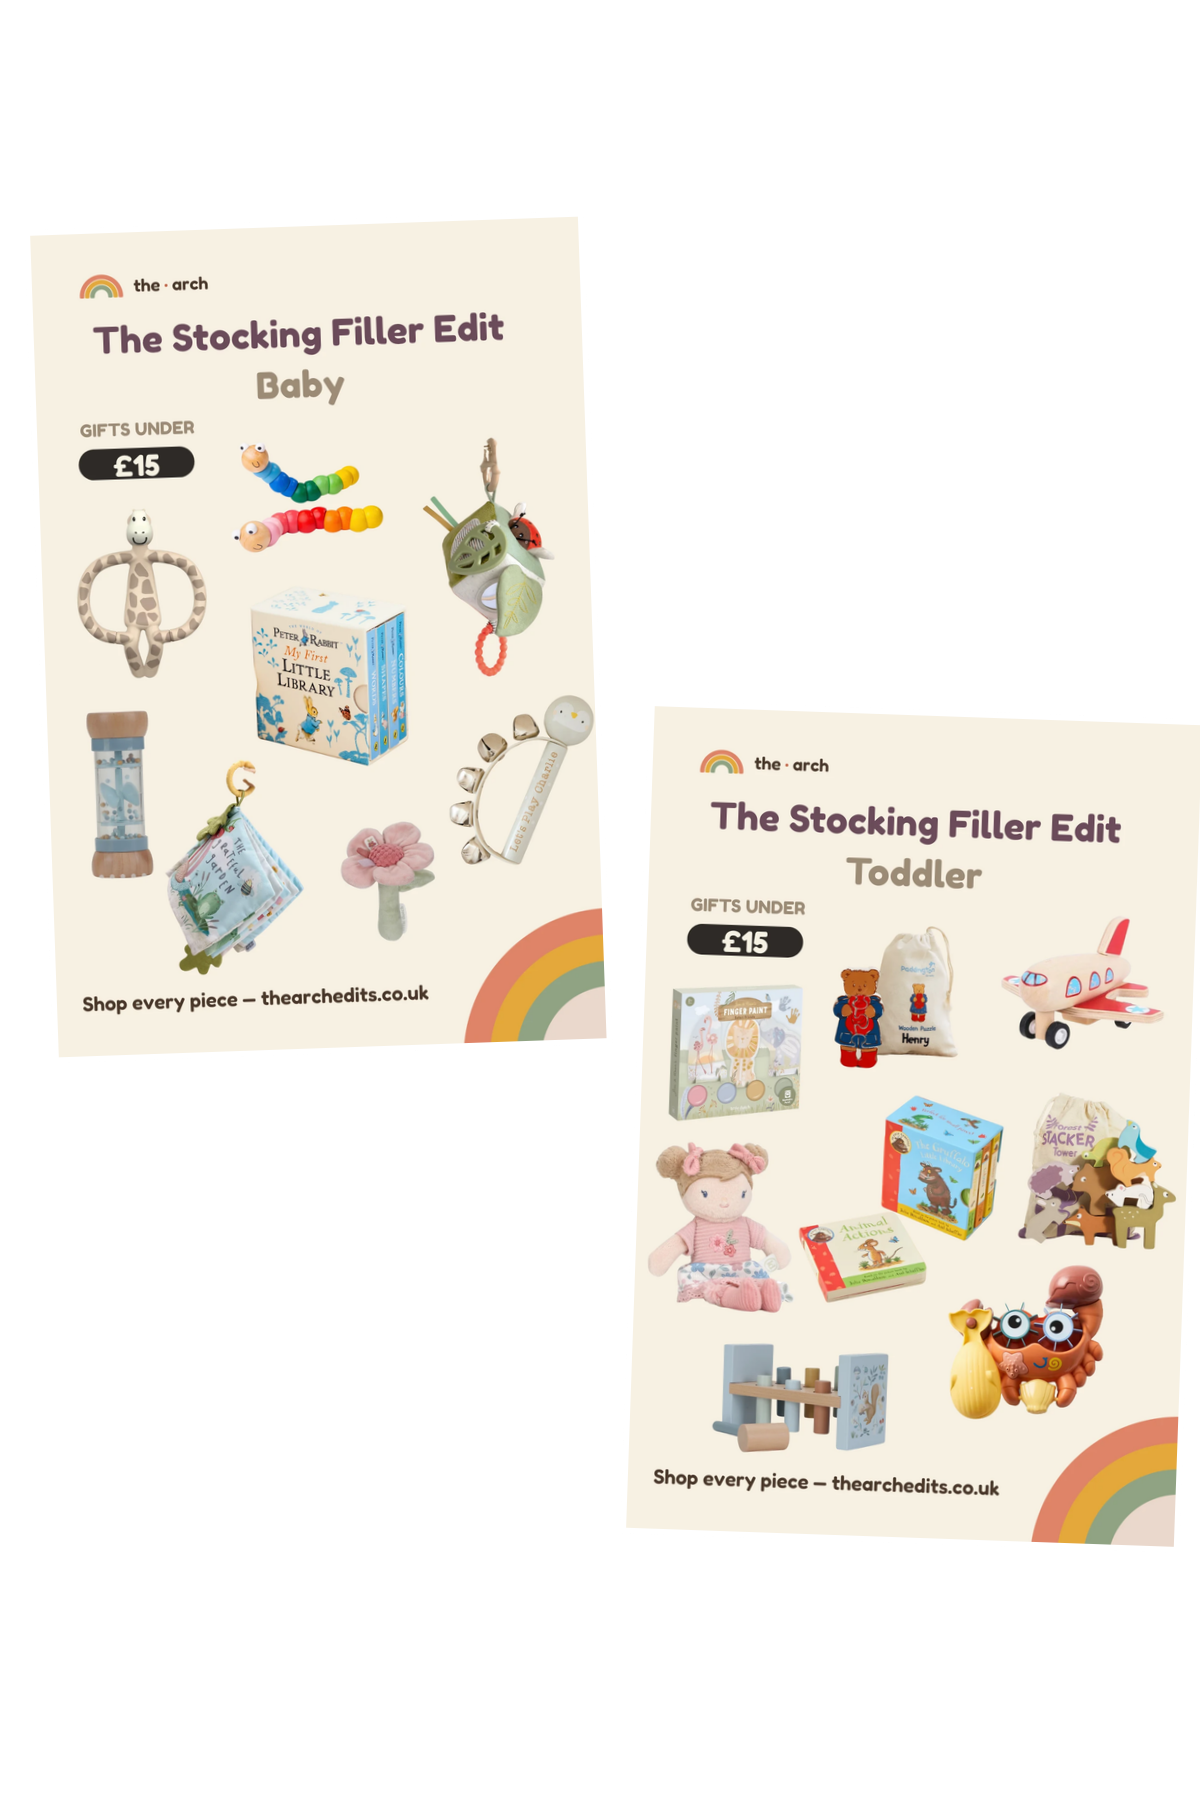
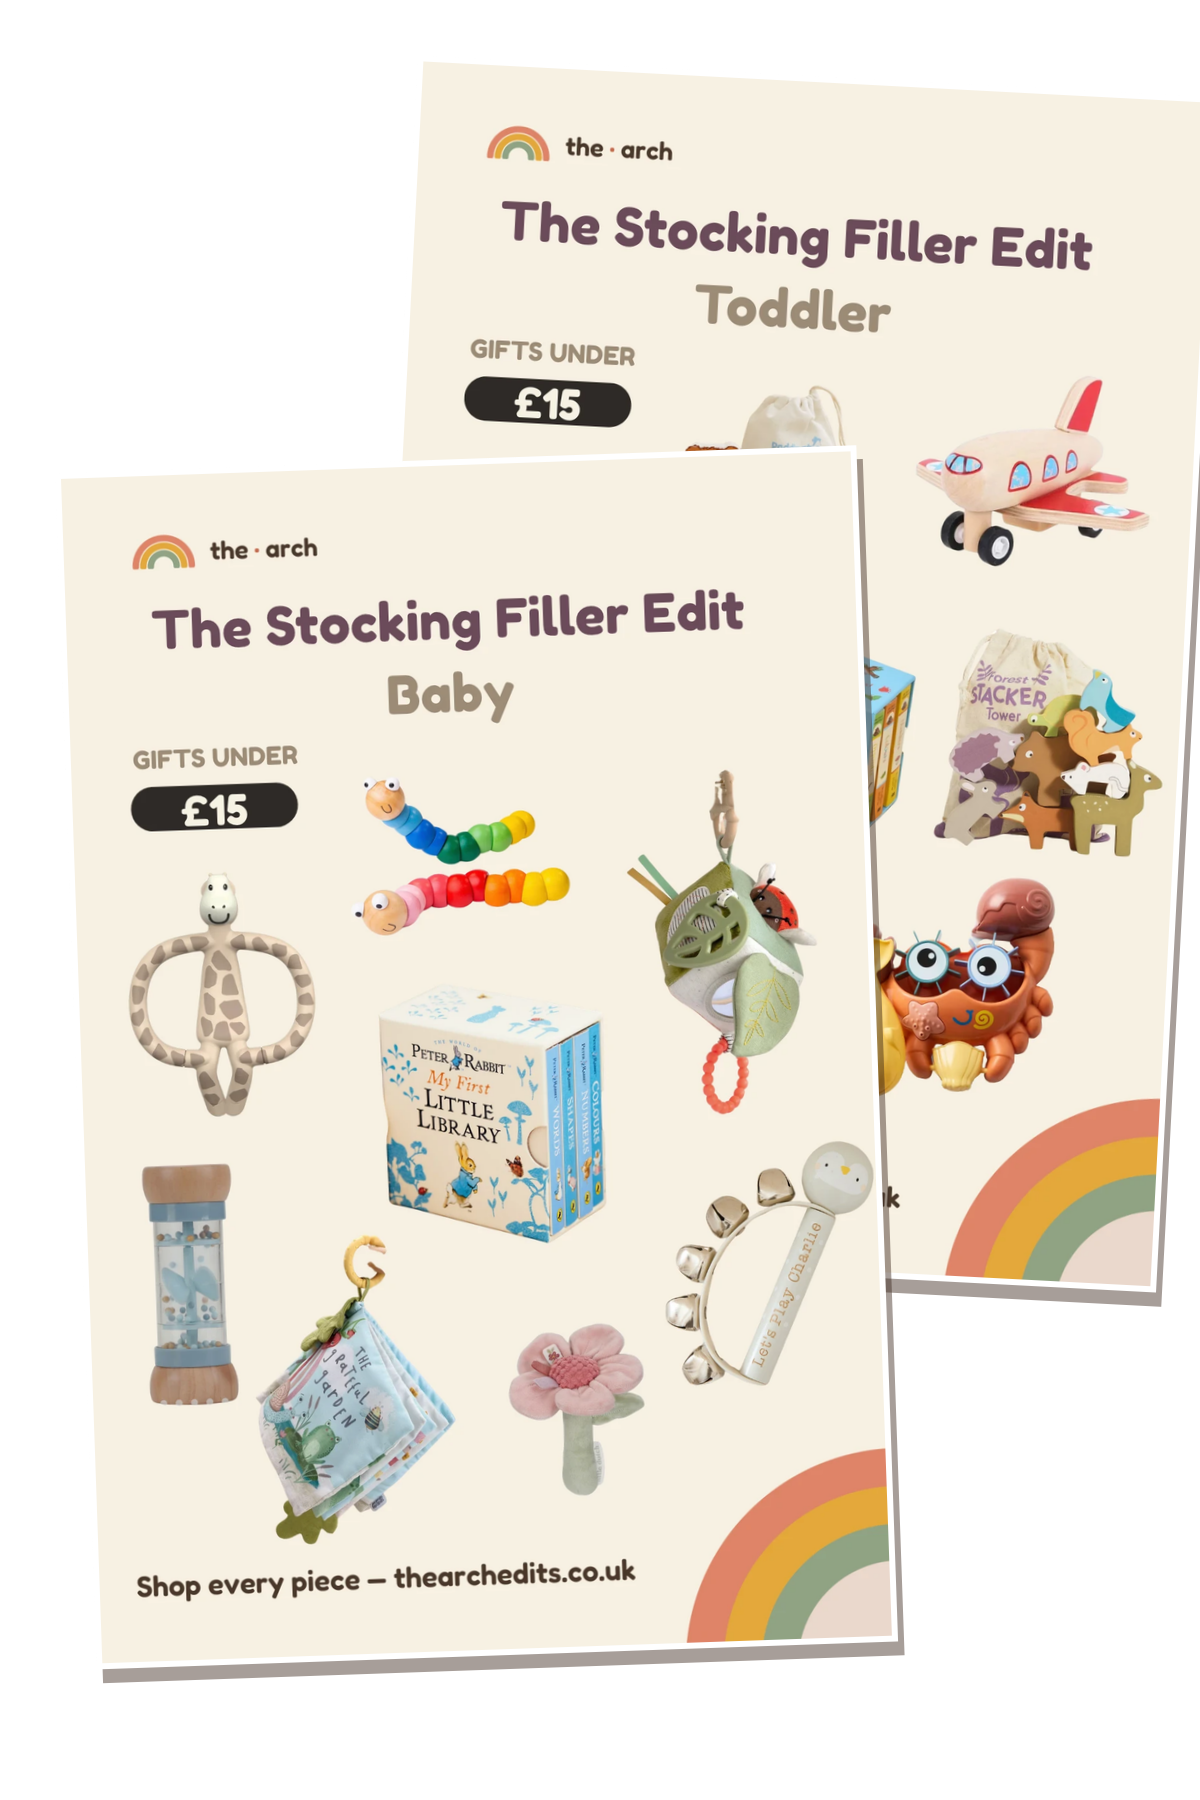
Stocking Filler cards: stacked boards, jump-to links per look, share preview shows both boards

diff --git a/app/edits/[slug]/page.tsx b/app/edits/[slug]/page.tsx
@@ -17,6 +17,11 @@ import { getEdit, publishedEdits } from "@/data/edits";
 import { site } from "@/lib/site";
 import { costOf, getProduct, priceOf } from "@/data/products";
 
+/** "Baby Girl" becomes "baby-girl": the address of that look on the page. */
+function lookId(label: string): string {
+  return label.toLowerCase().replace(/[^a-z0-9]+/g, "-").replace(/^-|-$/g, "");
+}
+
 export function generateStaticParams() {
   return publishedEdits.map((e) => ({ slug: e.slug }));
 }
@@ -37,7 +42,7 @@ export async function generateMetadata({
     openGraph: {
       title: edit.searchTitle ? `${edit.title}: ${edit.searchTitle}` : edit.title,
       description: edit.description,
-      images: edit.boardImage ? [edit.boardImage] : ["/logo-the-arch-square-dot.png"],
+      images: edit.shareImage ?? edit.boardImage ? [(edit.shareImage ?? edit.boardImage) as string] : ["/logo-the-arch-square-dot.png"],
     },
     // Without this, a link shared on X fell back to the site-wide card: the
     // logo and the general tagline instead of this edit's board and name.
@@ -45,7 +50,7 @@ export async function generateMetadata({
       card: "summary_large_image",
       title: edit.searchTitle ? `${edit.title}: ${edit.searchTitle}` : edit.title,
       description: edit.description,
-      images: edit.boardImage ? [edit.boardImage] : ["/logo-the-arch-square-dot.png"],
+      images: edit.shareImage ?? edit.boardImage ? [(edit.shareImage ?? edit.boardImage) as string] : ["/logo-the-arch-square-dot.png"],
     },
   };
 }
@@ -119,7 +124,7 @@ export default async function EditPage({ params }: { params: Promise<{ slug: str
         url,
         mainEntityOfPage: url,
         inLanguage: "en-GB",
-        ...(edit.boardImage ? { image: `${site.domain}${edit.boardImage}` } : {}),
+        ...((edit.shareImage ?? edit.boardImage) ? { image: `${site.domain}${edit.shareImage ?? edit.boardImage}` } : {}),
         ...(edit.published ? { datePublished: edit.published } : {}),
         ...(modified ? { dateModified: modified } : {}),
         author: { "@id": `${site.domain}/#gemma` },
@@ -238,6 +243,29 @@ export default async function EditPage({ params }: { params: Promise<{ slug: str
         <DisclosureNote className="max-w-2xl" />
       </section>
 
+      {/* Where each look is. An edit with two or more looks (baby and toddler,
+          or four outfits) puts the later ones a long way down the page, and
+          nobody should have to scroll to find out they exist. */}
+      {edit.looks.length > 1 && (
+        <nav aria-label="Jump to a look" className="px-5 pb-8 sm:px-8 md:px-14 flex flex-wrap items-center gap-2.5">
+          <span className="font-body font-bold text-xs tracking-widest uppercase text-terracotta mr-1">
+            Jump to
+          </span>
+          {edit.looks.map((look) => (
+            <a
+              key={look.label}
+              href={`#${lookId(look.label)}`}
+              className="font-display text-sm font-semibold px-5 py-2.5 rounded-pill bg-card text-ink border border-line hover:border-terracotta hover:text-terracotta transition-colors"
+            >
+              {look.label}
+              <span className="ml-2 font-body font-normal text-ink-faint">
+                {look.productIds.length} pieces
+              </span>
+            </a>
+          ))}
+        </nav>
+      )}
+
       {/* The board. A Canva mood board if one exists; otherwise the edit draws
           itself from its own palette — which is a finished look in its own
           right, not a placeholder waiting to be replaced. */}
@@ -294,7 +322,7 @@ export default async function EditPage({ params }: { params: Promise<{ slug: str
         const ink = (i: number) => deepen(pal[i % pal.length], 0.35);
 
         return (
-          <section key={look.label} className="px-5 pt-6 pb-10 sm:px-8 md:px-14">
+          <section key={look.label} id={lookId(look.label)} className="scroll-mt-24 px-5 pt-6 pb-10 sm:px-8 md:px-14">
             <div className="flex items-baseline justify-between flex-wrap gap-3 mb-5">
               <div className="flex items-baseline gap-3 flex-wrap">
                 <h2 className="font-display text-2xl font-semibold text-ink">{look.label}</h2>

diff --git a/data/edits.ts b/data/edits.ts
@@ -93,6 +93,7 @@ export const edits: Edit[] = [
     boardImage: "/edits/stocking-fillers-26-board.png",
     moreBoards: ["/edits/stocking-fillers-26-toddler-board-2.png"],
     cardImage: "/edits/stocking-fillers-26-card.png",
+    shareImage: "/edits/stocking-fillers-26-share.png",
     palette: ["#F4EFE6", "#E8C4C0", "#B9C7B0", "#B7C9D9"],
     description:
       "Sixteen stocking fillers for babies and toddlers, every one under £15: rattles, a teether and soft books for babies, finger paints, a hammer bench and a pull back plane for toddlers. Choose a few, with what each costs.",

diff --git a/lib/types.ts b/lib/types.ts
@@ -168,6 +168,10 @@ export interface Edit {
    *  toddler edit looks like a baby-only edit. A transparent PNG showing every
    *  board. Falls back to boardImage. */
   cardImage?: string;
+  /** The picture for link previews (Facebook, WhatsApp, X) and Google, when the
+   *  first board alone would mislead. Opaque, 1200 x 630, every board side by
+   *  side. Falls back to boardImage. */
+  shareImage?: string;
 
   /** True while an edit is still being built. Drafts are hidden from the live
    *  site — off /edits, out of the sitemap, 404 in production — but ARE
